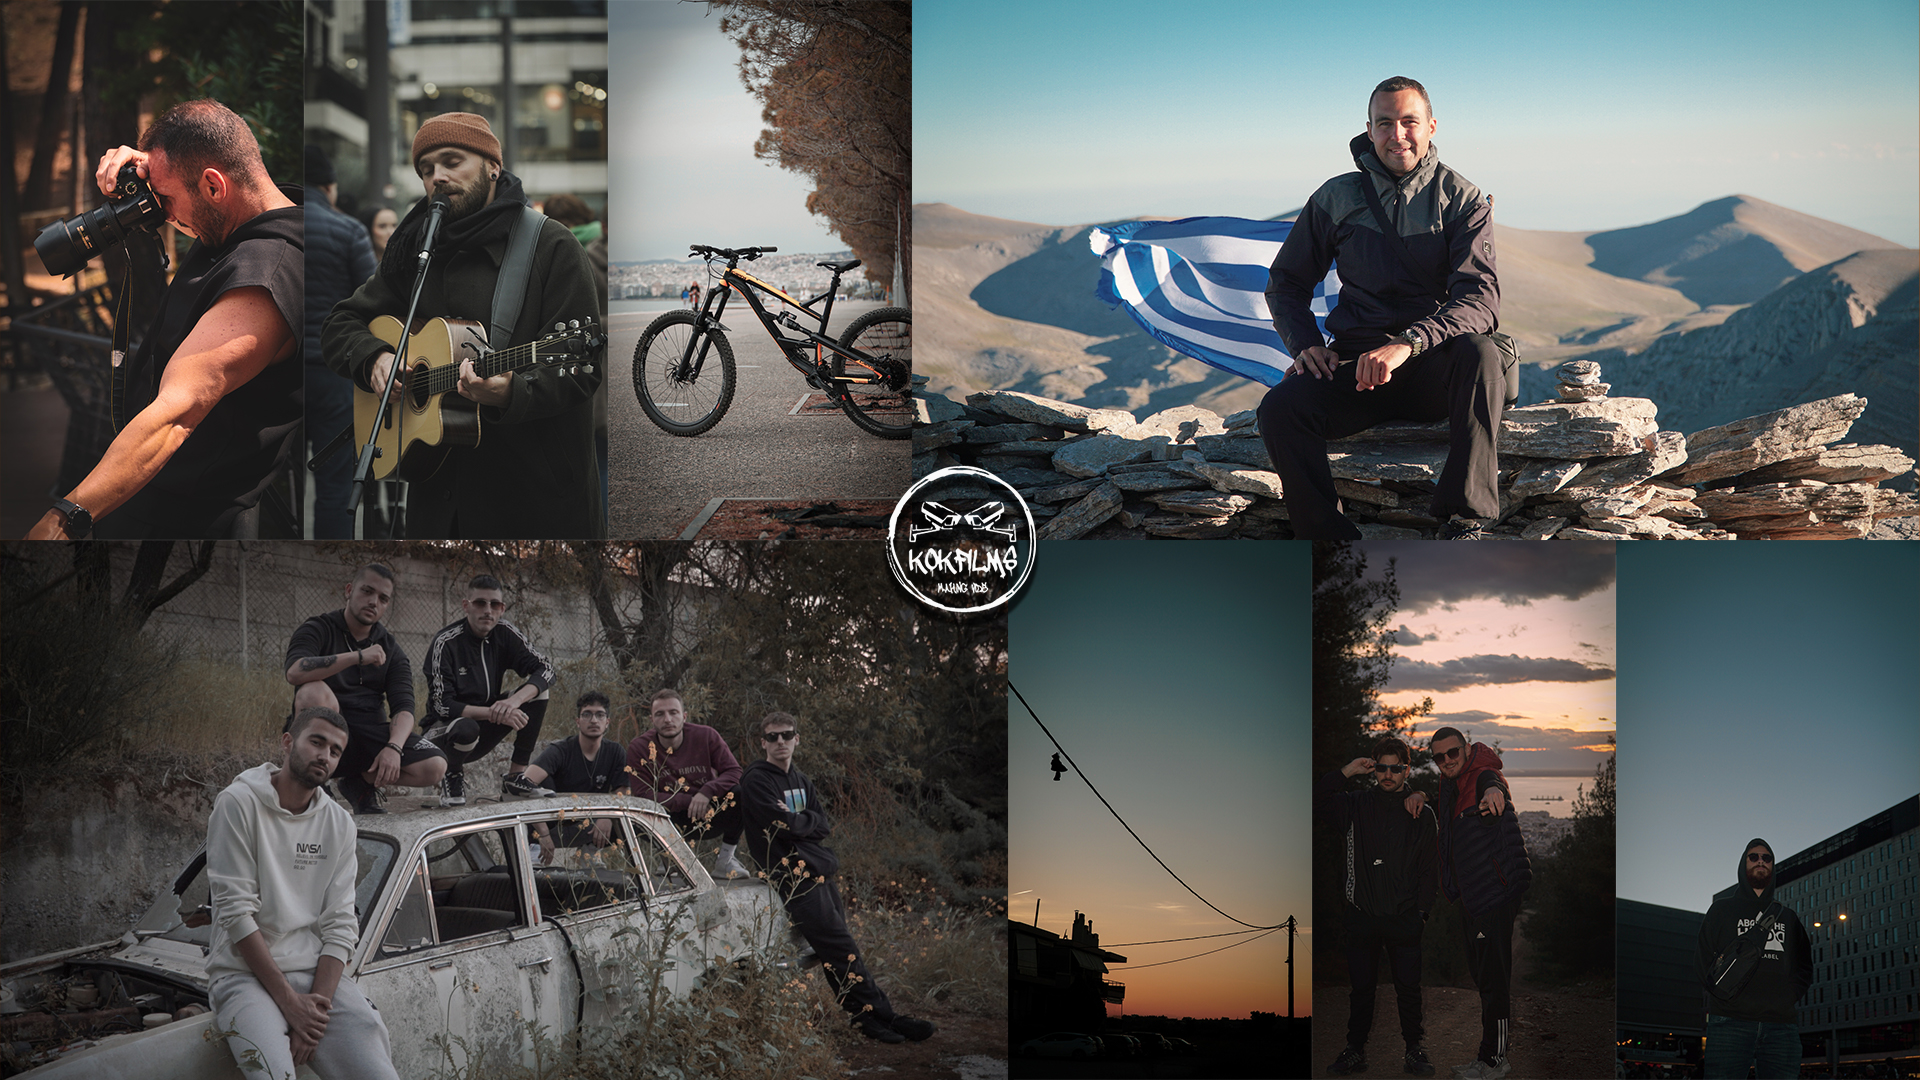
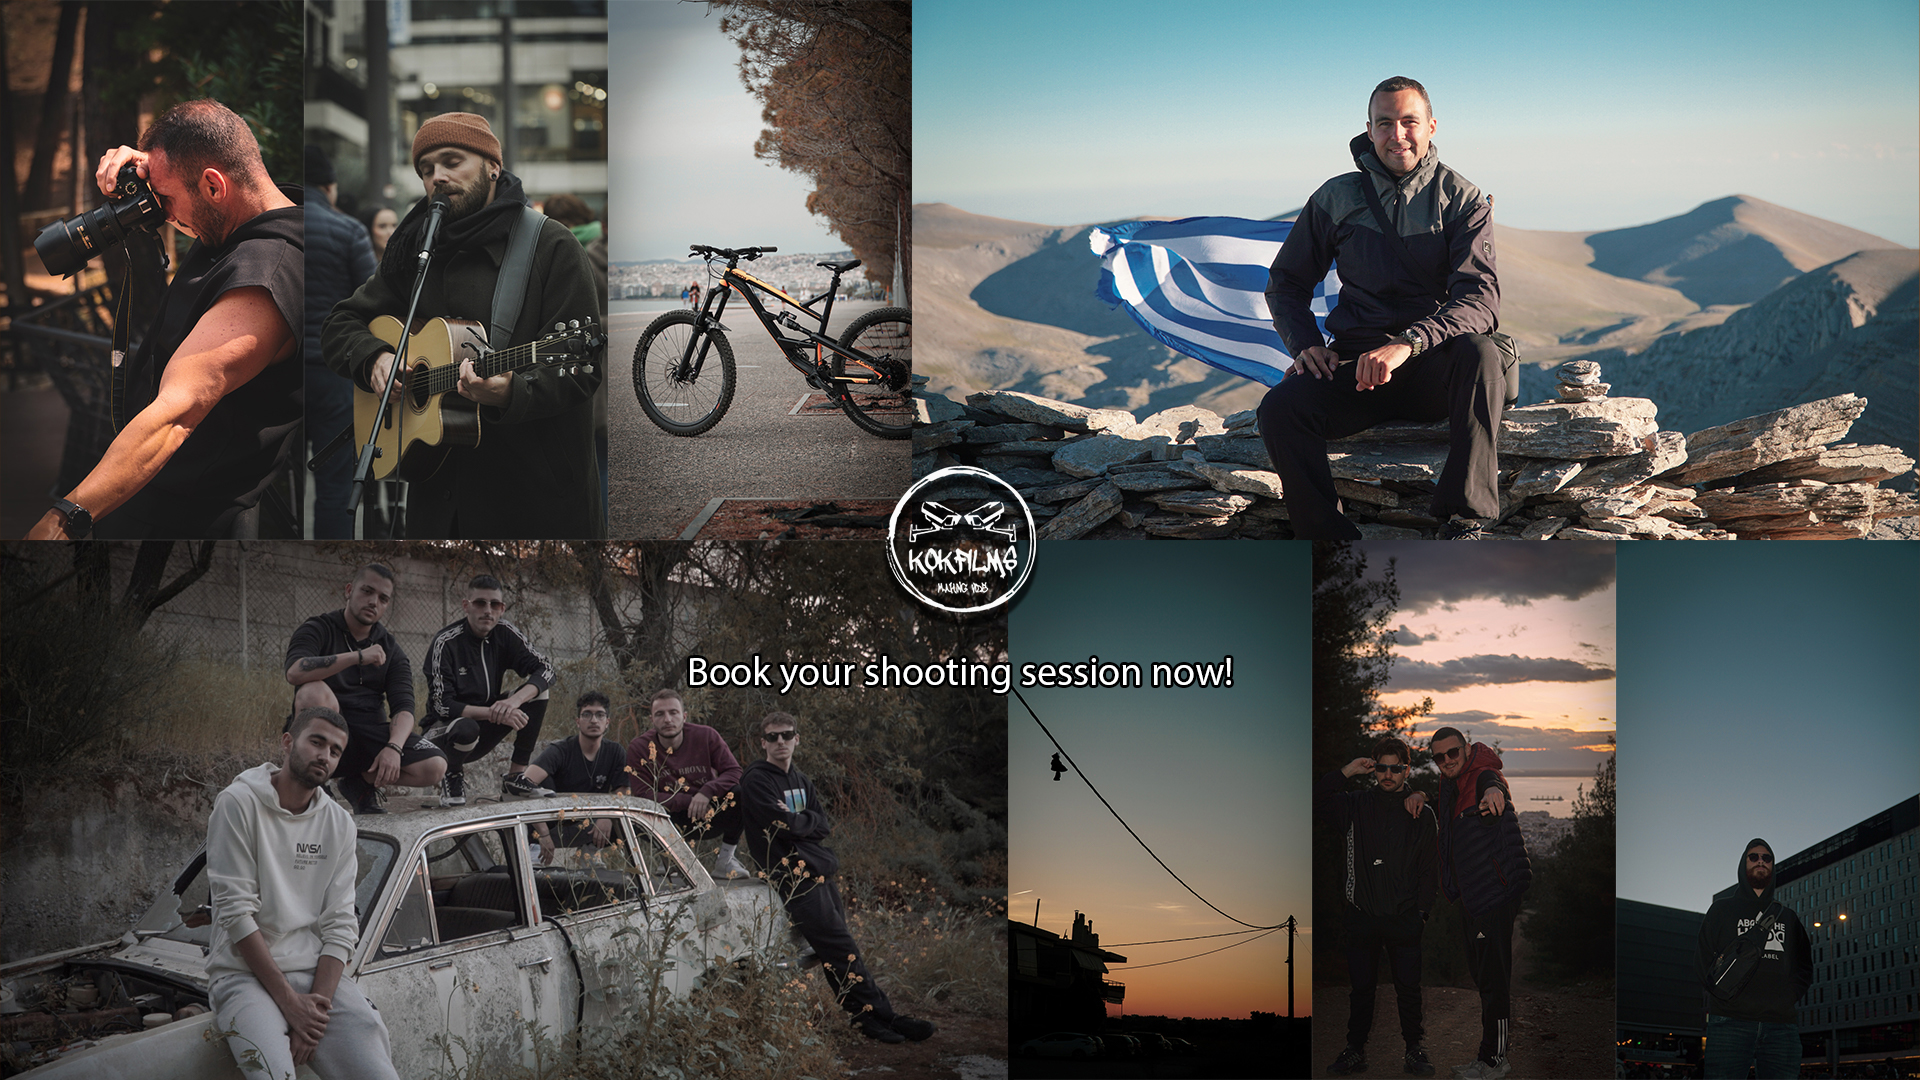
landscape changes

Changed region(s): [[0.3438, 0.6111, 0.6562, 0.6417]]

diff --git a/css/media.scss b/css/media.scss
@@ -140,15 +140,6 @@
     }
 }
 
-//Section 5
-@mixin section5($photo-fs-header) {
-    #section5 {
-        #photography-text {
-            font-size: $photo-fs-header;
-        }
-    }
-}
-
 //Section 6
 @mixin footer-p {
     position: relative;
@@ -217,20 +208,19 @@
 
 //Fullpage wrapper
 @mixin fullpage-wrapper($welcome-title, $music-title, $music-link-width, $music-link-height, $corpo-video-width, $corpo-fs-header, $corpo-fs-text, 
-$yt-fs-header, $yt-fs-link, $photo-fs-header, $contact-img-size, $contact-title-size, $contact-svg-width, $contact-svg-height) {
+$yt-fs-header, $yt-fs-link, $contact-img-size, $contact-title-size, $contact-svg-width, $contact-svg-height) {
     #fullpage-wrapper {
         @include section1($welcome-title);
         @include section2($music-title, $music-link-width, $music-link-height);
         @include section3($corpo-video-width, $corpo-fs-header, $corpo-fs-text);
         @include section4($yt-fs-header, $yt-fs-link);
-        @include section5($photo-fs-header);
         @include section6($contact-img-size, $contact-title-size, $contact-svg-width, $contact-svg-height);
     }
 }
 
 //Body
 @mixin body($arrow-display, $nav-ff-size, $fs-welcome, $fs-music-title, $music-link-width, $music-link-height, $corpo-video-width, $corpo-fs-header, 
-$corpo-fs-text, $yt-fs-header, $yt-fs-link, $photo-fs-header, $contact-img-size, $contact-title-size, $contact-svg-width, $contact-svg-height) {
+$corpo-fs-text, $yt-fs-header, $yt-fs-link, $contact-img-size, $contact-title-size, $contact-svg-width, $contact-svg-height) {
     .fp-arrow.fp-prev, .fp-arrow.fp-next {
         display: $arrow-display;
     }
@@ -248,59 +238,36 @@ $corpo-fs-text, $yt-fs-header, $yt-fs-link, $photo-fs-header, $contact-img-size,
     }
     
     @include fullpage-wrapper($fs-welcome, $fs-music-title, $music-link-width, $music-link-height, $corpo-video-width, $corpo-fs-header, 
-    $corpo-fs-text, $yt-fs-header, $yt-fs-link, $photo-fs-header, $contact-img-size, $contact-title-size, $contact-svg-width, $contact-svg-height);
+    $corpo-fs-text, $yt-fs-header, $yt-fs-link, $contact-img-size, $contact-title-size, $contact-svg-width, $contact-svg-height);
 }
 
 //Media
 @media screen and (max-width:1600px) {
     body {
-        @include body(block, 1rem, 5rem, 1rem, 64px, 44px, 480px !important, 3.5rem, 1.25rem, 2rem, 1.25rem, 2rem, 125px, 2rem, 56px, 56px);
+        @include body(block, 1rem, 5rem, 1rem, 64px, 44px, 480px !important, 3.5rem, 1.25rem, 2rem, 1.25rem, 125px, 2rem, 56px, 56px);
     }
 }
 
 @media screen and (max-width:1200px) {
     body {
-        @include body(block, .85rem, 5rem, 1rem, 64px, 44px, 360px !important, 3rem, 1.1rem, 1.75rem, 1rem, 1.75rem, 75px, 1rem, 42px, 42px);
+        @include body(block, .85rem, 5rem, 1rem, 64px, 44px, 360px !important, 3rem, 1.1rem, 1.75rem, 1rem, 75px, 1rem, 42px, 42px);
     }
 }
 
 @media screen and (max-width:767px) {
     body {
-        @include body(none, .85rem, 5rem, 1rem, 48px, 33px, 240px !important, 2rem, 1rem, 1.5rem, 1rem, 1.5rem, 75px, 1rem, 42px, 42px);
+        @include body(none, .85rem, 5rem, 1rem, 48px, 33px, 240px !important, 2rem, 1rem, 1.5rem, 1rem, 75px, 1rem, 42px, 42px);
     }
 }
 
 @media screen and (max-width:400px) {
     body {
-        @include body(none, .85rem, 5rem, 1rem, 48px, 33px, 240px !important, 1.5rem, .9rem, 1.25rem, 1rem, 1.25rem, 75px, 1rem, 42px, 42px);
-    }
-}
-
-//Media for Corpo section, when user's screen is on landscape orientation
-@media screen and (orientation: landscape) and (max-height: 500px) {
-    body {
-        #fullpage-wrapper {
-            #section3 {
-                .corpo-wrapper {
-                    .corpo-text-wrapper {
-                        margin: 0;
-
-                        .corpo-title {
-                            display: none;
-                        }
-                        
-                        .corpo-text {
-                            display: none;
-                        }
-                    }
-                }
-            }
-        }
+        @include body(none, .85rem, 5rem, 1rem, 48px, 33px, 240px !important, 1.5rem, .9rem, 1.25rem, 1rem, 75px, 1rem, 42px, 42px);
     }
 }
 
 //Media for Mobile Menu & Photography section
-@media screen and (orientation: portrait) {
+@mixin mobile-menu() {
     body {
         #nav-icon {
             display: block;
@@ -318,6 +285,7 @@ $corpo-fs-text, $yt-fs-header, $yt-fs-link, $photo-fs-header, $contact-img-size,
             top: 0;
             left: 0;
             height: 100vh;
+            width: 100vw;
             background-color: rgba(26, 26, 26, .95);
 
             nav {
@@ -356,6 +324,52 @@ $corpo-fs-text, $yt-fs-header, $yt-fs-link, $photo-fs-header, $contact-img-size,
             #section5 {
                 .photos-image {
                     content: url('../images/photos/photography-portrait.jpg');
+                }
+            }
+        }
+    }
+}
+
+//Media for Portrait
+@media screen and (orientation: portrait) {
+    @include mobile-menu();
+}
+
+//Media for Landscape
+@media screen and (orientation: landscape) and (max-height: 500px) {
+    @include mobile-menu();
+    
+    body {
+        #nav-wrapper {
+            nav {
+                #nav-ul {
+                    #nav-li-img {display: none;}
+                }
+
+                #social-ul {display: none;}
+            }
+        }
+
+        #fullpage-wrapper {
+            #section3 {
+                .corpo-wrapper {
+                    .corpo-text-wrapper {
+                        margin: 0;
+
+                        .corpo-title {
+                            display: none;
+                        }
+                        
+                        .corpo-text {
+                            display: none;
+                        }
+                    }
+                }
+            }
+
+            #section5 {
+                .photos-image {
+                    content: url('../images/photos/photography-landscape.jpg');
                 }
             }
         }

diff --git a/css/media.css b/css/media.css
@@ -148,9 +148,6 @@
   body #fullpage-wrapper #section4 .yt-slide .yt-wrapper .yt-link {
     font-size: 1.25rem !important;
   }
-  body #fullpage-wrapper #section5 #photography-text {
-    font-size: 2rem;
-  }
   body #fullpage-wrapper #section6 .contact-wrapper #contact-image {
     height: 125px;
     width: auto;
@@ -338,9 +335,6 @@
   }
   body #fullpage-wrapper #section4 .yt-slide .yt-wrapper .yt-link {
     font-size: 1rem !important;
-  }
-  body #fullpage-wrapper #section5 #photography-text {
-    font-size: 1.75rem;
   }
   body #fullpage-wrapper #section6 .contact-wrapper #contact-image {
     height: 75px;
@@ -530,9 +524,6 @@
   body #fullpage-wrapper #section4 .yt-slide .yt-wrapper .yt-link {
     font-size: 1rem !important;
   }
-  body #fullpage-wrapper #section5 #photography-text {
-    font-size: 1.5rem;
-  }
   body #fullpage-wrapper #section6 .contact-wrapper #contact-image {
     height: 75px;
     width: auto;
@@ -721,9 +712,6 @@
   body #fullpage-wrapper #section4 .yt-slide .yt-wrapper .yt-link {
     font-size: 1rem !important;
   }
-  body #fullpage-wrapper #section5 #photography-text {
-    font-size: 1.25rem;
-  }
   body #fullpage-wrapper #section6 .contact-wrapper #contact-image {
     height: 75px;
     width: auto;
@@ -762,17 +750,6 @@
     display: none;
   }
 }
-@media screen and (orientation: landscape) and (max-height: 500px) {
-  body #fullpage-wrapper #section3 .corpo-wrapper .corpo-text-wrapper {
-    margin: 0;
-  }
-  body #fullpage-wrapper #section3 .corpo-wrapper .corpo-text-wrapper .corpo-title {
-    display: none;
-  }
-  body #fullpage-wrapper #section3 .corpo-wrapper .corpo-text-wrapper .corpo-text {
-    display: none;
-  }
-}
 @media screen and (orientation: portrait) {
   body #nav-icon {
     display: block;
@@ -789,6 +766,7 @@
     top: 0;
     left: 0;
     height: 100vh;
+    width: 100vw;
     background-color: rgba(26, 26, 26, 0.95);
   }
   body #nav-wrapper nav {
@@ -819,5 +797,72 @@
   }
   body #fullpage-wrapper #section5 .photos-image {
     content: url("../images/photos/photography-portrait.jpg");
+  }
+}
+@media screen and (orientation: landscape) and (max-height: 500px) {
+  body #nav-icon {
+    display: block;
+    position: absolute;
+    top: 2%;
+    right: 4%;
+    transition: all 0.3s ease;
+    z-index: 999;
+    cursor: pointer;
+  }
+  body #nav-wrapper {
+    display: none;
+    position: absolute;
+    top: 0;
+    left: 0;
+    height: 100vh;
+    width: 100vw;
+    background-color: rgba(26, 26, 26, 0.95);
+  }
+  body #nav-wrapper nav {
+    width: 100vw;
+    height: 100vh;
+    flex-direction: column;
+    justify-content: center;
+    align-items: center;
+  }
+  body #nav-wrapper nav #nav-ul {
+    flex-direction: column;
+    align-items: center;
+  }
+  body #nav-wrapper nav #nav-ul #nav-li-img {
+    position: absolute;
+    top: 20%;
+    left: 50%;
+    transform: translate(-50%, -50%);
+  }
+  body #nav-wrapper nav #nav-ul .nav-li {
+    margin: 15px 0;
+  }
+  body #nav-wrapper nav #social-ul {
+    position: absolute;
+    bottom: 5%;
+    left: 50%;
+    transform: translate(-50%, -50%);
+  }
+  body #fullpage-wrapper #section5 .photos-image {
+    content: url("../images/photos/photography-portrait.jpg");
+  }
+  body #nav-wrapper nav #nav-ul #nav-li-img {
+    display: none;
+  }
+  body #nav-wrapper nav #social-ul {
+    display: none;
+  }
+  body #fullpage-wrapper #section3 .corpo-wrapper .corpo-text-wrapper {
+    margin: 0;
+  }
+  body #fullpage-wrapper #section3 .corpo-wrapper .corpo-text-wrapper .corpo-title {
+    display: none;
+  }
+  body #fullpage-wrapper #section3 .corpo-wrapper .corpo-text-wrapper .corpo-text {
+    display: none;
+  }
+  body #fullpage-wrapper #section5 .photos-image {
+    content: url("../images/photos/photography-landscape.jpg");
   }
 }/*# sourceMappingURL=media.css.map */

diff --git a/css/style.scss b/css/style.scss
@@ -593,22 +593,6 @@ body {
                 width: 100vw;
                 object-fit: cover;
             }
-
-            #photography-text {
-                position: absolute;
-                top: 62.5%;
-                left: 50%;
-                transform: translate(-50%, -50%);
-                color: $clrSecondary;
-                font: {
-                    size: 2rem;
-                    family: $ffText;
-                }
-                text: {
-                    align: center;
-                    shadow: 0px 0px 4px #000000, 0px 0px 4px #000000, 0px 0px 4px #000000, 0px 0px 4px #000000;
-                }
-            }
         }
 
         //Section 6

diff --git a/css/style.css b/css/style.css
@@ -611,17 +611,6 @@ body #fullpage-wrapper #section5 .photos-image {
   -o-object-fit: cover;
      object-fit: cover;
 }
-body #fullpage-wrapper #section5 #photography-text {
-  position: absolute;
-  top: 62.5%;
-  left: 50%;
-  transform: translate(-50%, -50%);
-  color: #fafafa;
-  font-size: 2rem;
-  font-family: "Chakra Petch", sans-serif;
-  text-align: center;
-  text-shadow: 0px 0px 4px #000000, 0px 0px 4px #000000, 0px 0px 4px #000000, 0px 0px 4px #000000;
-}
 body #fullpage-wrapper #section6 .contact-wrapper {
   height: 90vh;
   width: 70vw;

diff --git a/index.html b/index.html
@@ -200,7 +200,6 @@
         <!-- Section 5 -->
         <div class="section" id="section5" data-anchor="photography">
             <img class="photos-image" src="./images/photos/photography-landscape.jpg" alt="">
-            <p id="photography-text">Book your shooting session now!</p>
         </div>
         <!-- Section 6 -->
         <div class="section" id="section6" data-anchor="contact">

diff --git a/js/main.js b/js/main.js
@@ -122,7 +122,7 @@ mobileMenu.addEventListener('click', toggleMenu);
 let toggleMenuBool = 0;
 
 function toggleMenu() {
-    if (window.innerHeight > window.innerWidth) {
+    if ((window.innerHeight > window.innerWidth) || (window.innerHeight < window.innerWidth && window.innerHeight <= 500)) {
         if (toggleMenuBool == 0) {
             openMenu();
         }
